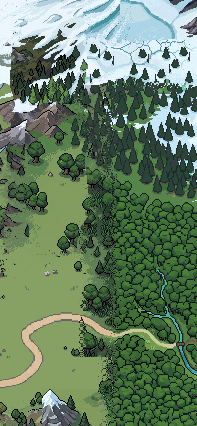
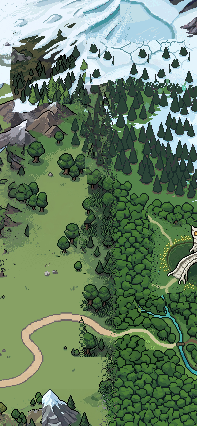
EPO03 landmarks: the Fairy Castle grows out of three birches over a flower-ringed pool (L1 accepted, the pool-less r1 rejected); the rain band frays instead of ending on a straight edge; the last discarded prop goes

Changed region(s): [[0.731, 0.4883, 1.0, 0.7019]]

diff --git a/GAME_BIBLE/ART/exploration/EPO03/tools/rain-assemble.js b/GAME_BIBLE/ART/exploration/EPO03/tools/rain-assemble.js
@@ -9,6 +9,23 @@ const path = require('path');
 const png = require(path.resolve(__dirname, '../../../../../Scripts/art/png.js'));
 const [stillP, animP, outP, framesS, wispS, dxS, dyS] = process.argv.slice(2);
 const still = png.load(stillP);
+// The wisp band is a full-width slab of dark cloud: at phone FOV its left,
+// right and top edges read as a drawn RECTANGLE over the heath (seen on
+// PLACEMENT_f0_L2_storm_fov_x2.png). It is frayed here by dropping WHOLE wisp
+// pixels with a probability that falls off toward those three edges — the same
+// dither-SELECT the atlas masks use (A-2), never partial alpha, which the
+// palette guard forbids outright.
+const hash = (x, y, salt) => {
+  let h = (x * 73856093) ^ (y * 19349663) ^ (salt * 83492791);
+  h = (h ^ (h >>> 13)) >>> 0;
+  return (h % 1024) / 1024;
+};
+const FRAY_X = 20, FRAY_Y = 8;
+const wispKeep = (x, y, w) => Math.min(
+  Math.min(x, w - 1 - x) / FRAY_X,
+  (y + 1) / FRAY_Y,
+  1,
+);
 const F = Number(framesS), WISP = Number(wispS), dx = Number(dxS), dy = Number(dyS);
 const W = still.width, H = still.height;
 for (let f = 0; f < F; f++) {
@@ -16,7 +33,10 @@ for (let f = 0; f < F; f++) {
   const anim = png.load(`${animP}${f + 1}.png`); // animate frame 1..F (0 is the input)
   for (let y = 0; y < H; y++) for (let x = 0; x < W; x++) {
     let src, sx, sy;
-    if (y < WISP) { src = anim; sx = x; sy = y; }
+    if (y < WISP) {
+      if (hash(x, y, 181 + f) >= wispKeep(x, y, W)) continue;   // frayed edge
+      src = anim; sx = x; sy = y;
+    }
     else {
       src = still;
       sx = ((x - dx * f) % W + W) % W;

diff --git a/GAME_BIBLE/ART/exploration/EPO03/ledger/LANDMARKS.md b/GAME_BIBLE/ART/exploration/EPO03/ledger/LANDMARKS.md
@@ -30,12 +30,14 @@ Regions: `E/src/atlas/regions_landmarks.json` (pending) → `E/out/atlas/manifes
 | 09edcc61 | create_image_pixen | beacon drift sparkle B (seed 1272) | 32x32 | 1 | REJECT | four-point violet-blue stars, too saturated and too busy for a snow glitter |
 | de827074 | inpaint_image | L2 storm pocket r1: gloom hollow, black gable at (218,900) with three amber windows, blasted leaning trees, wet track (seed 1301) | 176x176 crop, mask 96x96 @ (40,40) | ~20 | **ACCEPT — SHIPPED** | the house reads as a destination at 34 px with lit windows; two blasted trees and a charred split one; puddled track. Heath 60 px east is 33.5 L* brighter and west 24.0 L* brighter than the ground at the house. `south_strand_w` re-extracted in the same commit. QA: repeated sprite pairs 0. |
 | 1e07df6f | inpaint_image | L2 r2: the whole rect under a storm shadow, gloom heaviest at the middle (seed 1302) | 176x176 crop, mask 96x96 @ (40,40) | ~20 | **REJECT** | a hard-edged dark RECTANGLE filling the mask exactly — the generated rectangle the round exists to remove. Asking for a field-wide tonal shift asks the model for a panel. r1 stands. rejected/atlas/L2_r2.txt |
+| 9e21366e | inpaint_image | L1 fairy glade r1: birch castle, glade, root bridge, pool with gold flower-lights (seed 1401) | 208x192 crop, mask 120x104 @ (40,40) | ~20 | **REJECT** | the castle, the glade and the bridge all landed, but there is NO POOL — the bridge crosses a dry brown ravine and no flower-lights exist. Two of four named features missing. rejected/atlas/L1_r1.txt |
+| 9db93810 | inpaint_image | L1 r2: the pool named FIRST, the castle standing over it, "no dry ravine" (seed 1402) | 208x192 crop, mask 120x104 @ (40,40) | ~20 | **ACCEPT — SHIPPED** | a moss-green pool ringed all round in gold flower-light, the pale root bridge arching across it, the birch castle with amber windows on the far bank at (335,452), paths winding out to the canopy fringe. Core re-base (`coreAuthor`), no golden touched. QA: repeated sprite pairs 0. |
 
 ## Assembly (0 generations — deterministic, A-2)
 
 | tool | what it does | why not PixelLab |
 |---|---|---|
-| `tools/rain-assemble.js` | `overlay_storm_rain` 8 f: rows 0–27 are the animate pass wisps, the rain body is the accepted still scrolled 3,6 px/frame with wrap | the animate pass emptied the rain out of six of its eight frames (measured); the still is PixelLab art either way |
+| `tools/rain-assemble.js` | `overlay_storm_rain` 8 f: rows 0–27 are the animate pass wisps (their left, right and top edges hash-frayed after the first placement render showed the band as a drawn rectangle over the heath), the rain body is the accepted still scrolled 3,6 px/frame with wrap | the animate pass emptied the rain out of six of its eight frames (measured); the still is PixelLab art either way |
 | `tools/strike-assemble.js` | `overlay_storm_strike` 8 f: fork + a 30 px dithered ground flash, afterglow, second fork, fade, four empty | DIR-03 specifies this frame plan as script-assembled; the forks are PixelLab pixels translated onto the roof |
 | `tools/beacon-key.js` | `overlay_ice_beacon_sweep` 10 f: subtracts the shipped crop from four lit passes, drops 8-connected components under 10 px, sweeps L→C→R→C with a drifting sparkle | DIR-03 specifies diff-key; every kept pixel is one the model added |
 | `tools/fairy-arcs.js` | `overlay_fae_court` 16 f: seven fairies on ellipses round the castle, three-frame glow trails, a gathering pulse at f10–15 | DIR-03 specifies `fairy-arcs.js`; the sprite is PixelLab's 4-frame wingbeat, only placed |
@@ -46,7 +48,8 @@ Regions: `E/src/atlas/regions_landmarks.json` (pending) → `E/out/atlas/manifes
 |---|---:|
 | L3 inpaints (r1 reject, r2 candidate, r3 shipped) | 60 |
 | L2 inpaints (r1 shipped, r2 reject) | 40 |
-| overlay stills and animations | 17 |
-| beacon edits and sparkles (one infra failure, 0) | 6 |
-| **spent so far** | **123** of the 300 cap |
-| L1 inpaints still to come (up to 3 rolls at ~25) | budgeted 75 |
+| L1 inpaints (r1 reject, r2 shipped) | 40 |
+| overlay stills and animations (10 pixen + 3 animate) | 13 |
+| beacon edits and sparkles (one CUDA-OOM failure billed 0) | 6 |
+| **family total** | **159** of the 300 cap |
+| unspent | 141 |
